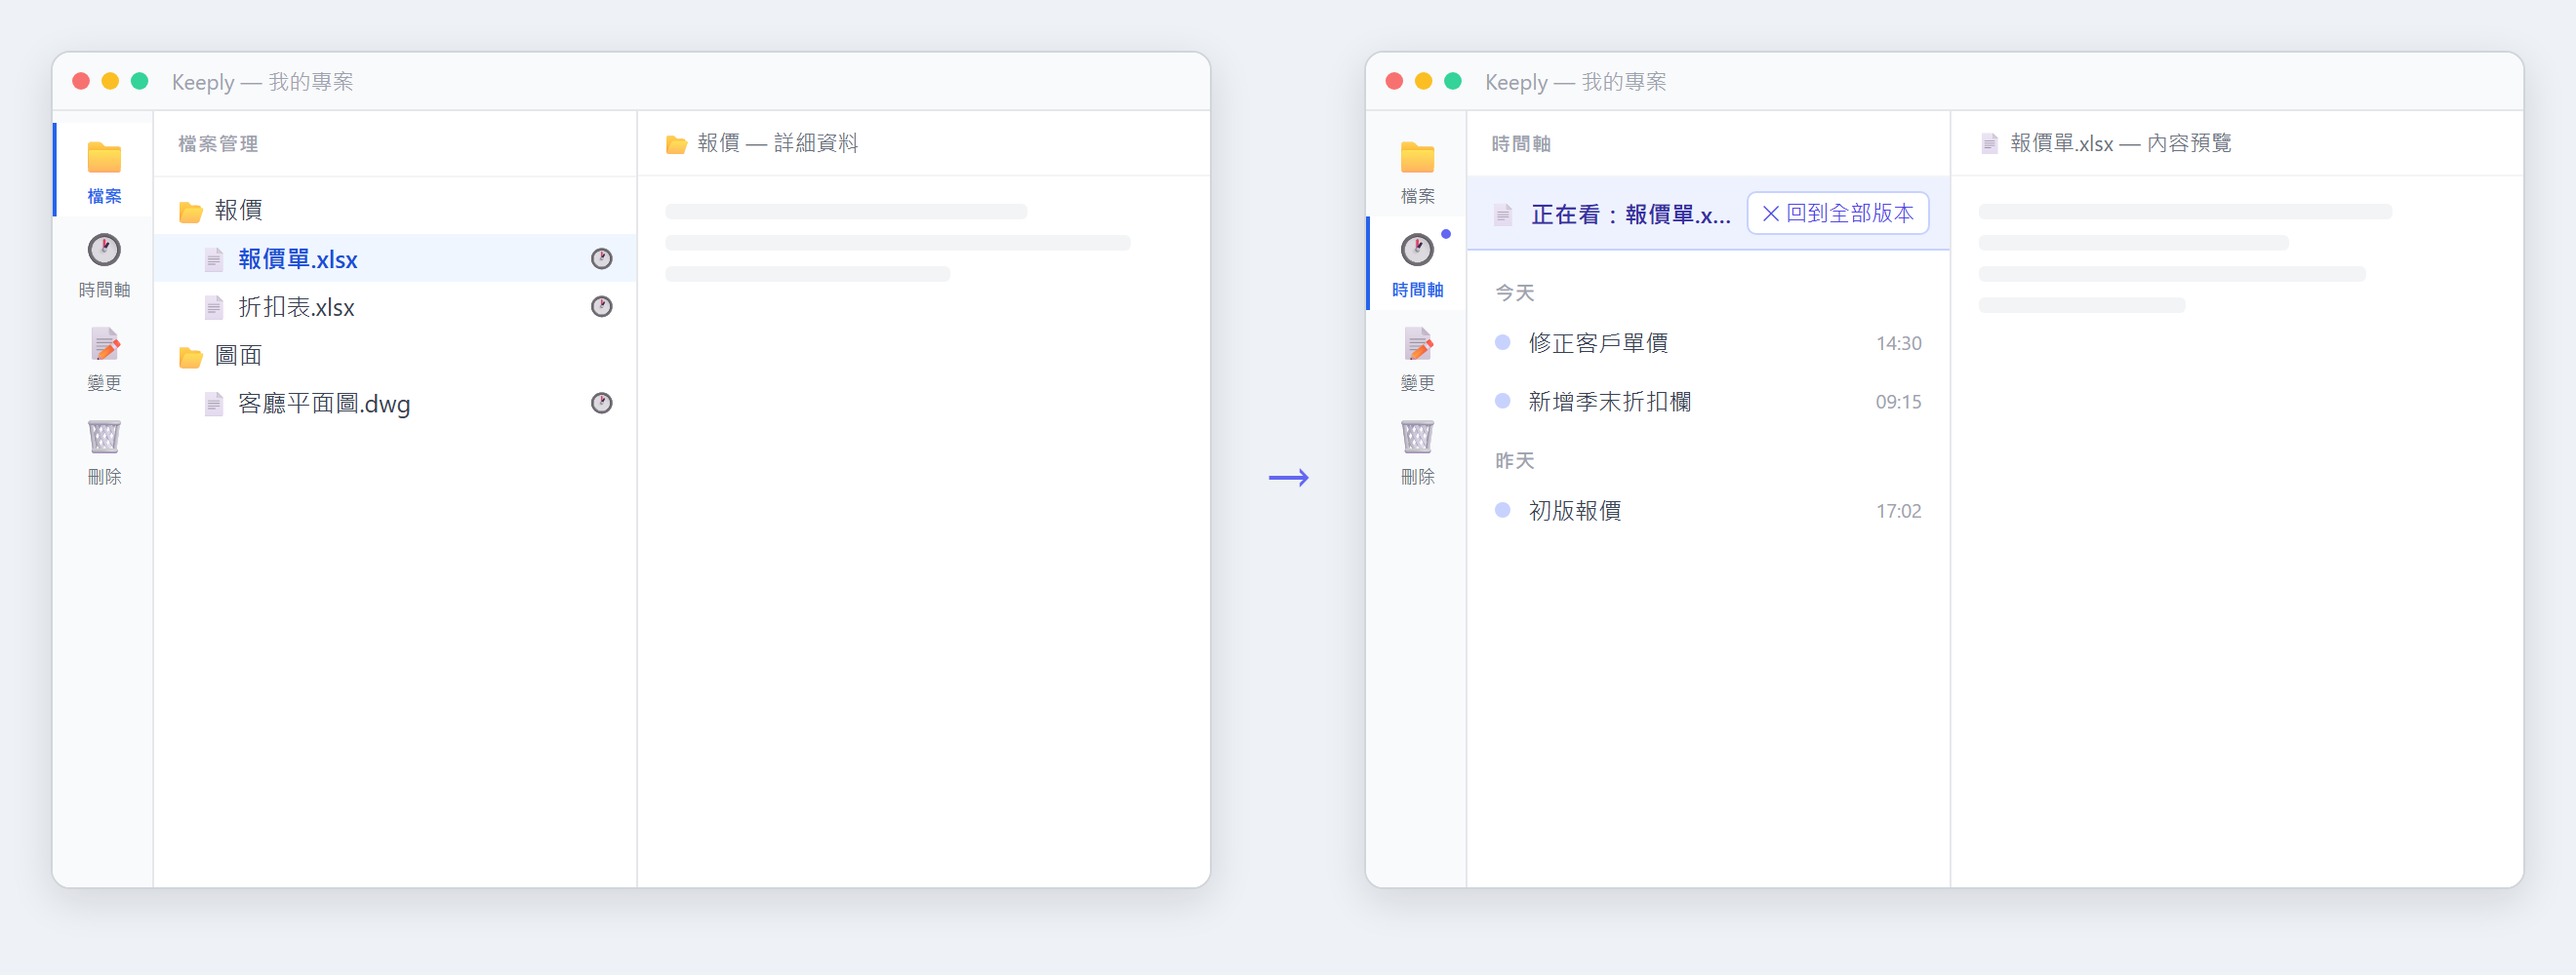
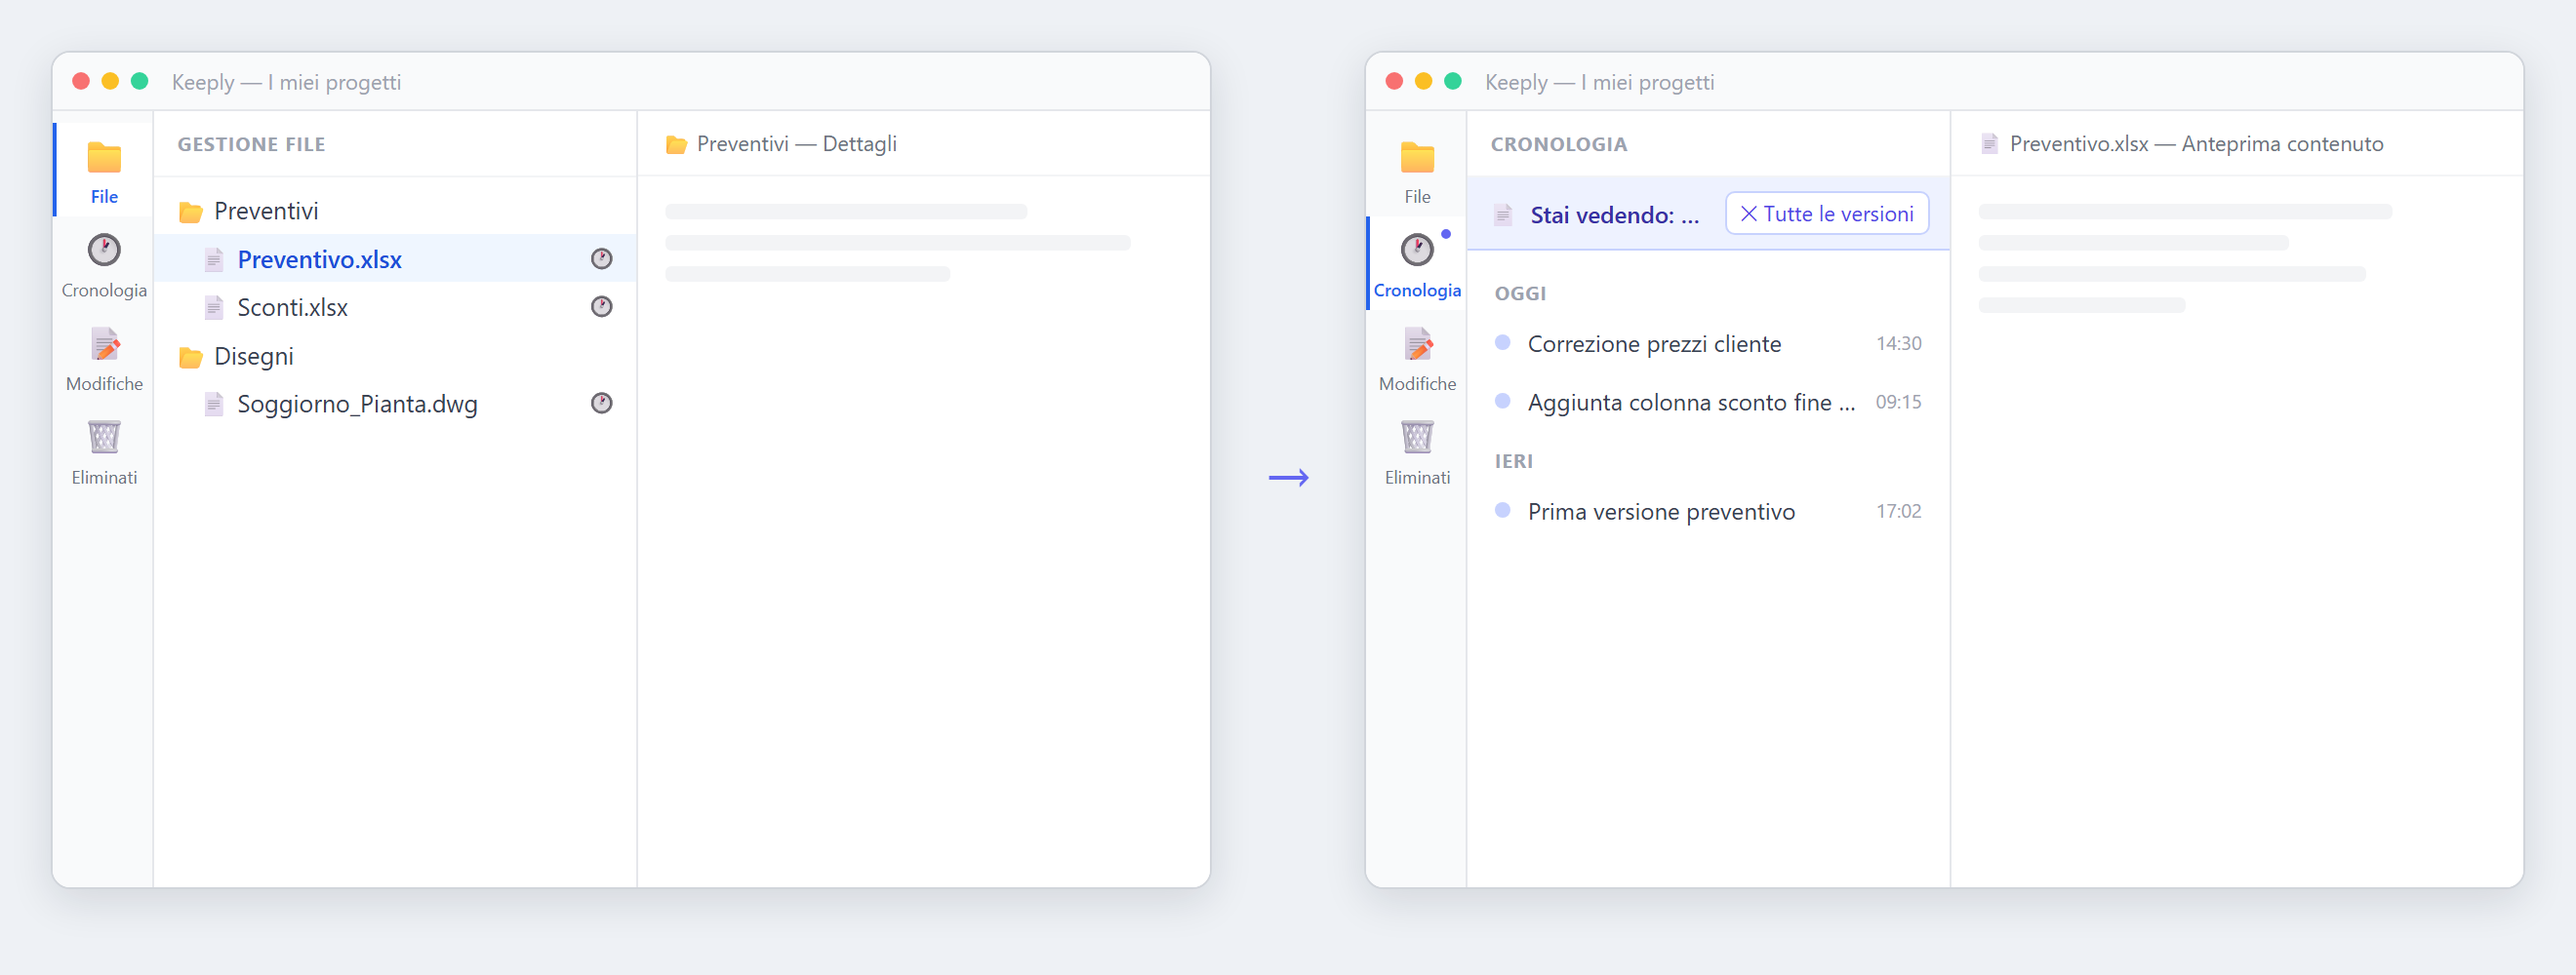
blog(post): localize keeply-1-0-13-update in-article images per locale
Replace the shared zh-TW wireframe images with per-locale localized
versions (deletion time machine / file-scoped timeline / team metro map)
for en/zh-CN/ja/ko/it — UI text, sample person + project names localized
and reviewed by per-locale native red-team agents. Fix zh-TW alt text
(was wrongly noting "English interface"). Metro-map layout hardened
(drop redundant branch annotation + trim merge label) so longer
languages don't overflow. Drop the "interface in Chinese" alt notes.

diff --git a/apps/blog/content/it/post/keeply-1-0-13-update/index.md b/apps/blog/content/it/post/keeply-1-0-13-update/index.md
@@ -33,13 +33,13 @@ Clicchi una voce e, sulla destra, si apre come in una time machine l'albero dei 
 
 Spunti i file che ti servono (puoi selezionare in un colpo solo tutti quelli eliminati in quella versione), premi "Ripristina gli N file selezionati", scegli una cartella di destinazione (per impostazione predefinita il desktop) e Keeply li ripristina rispettando la struttura di cartelle originale. In caso di nomi in conflitto, viene aggiunto in automatico il suffisso `_restored`, così non sovrascrivi i file che hai già.
 
-![La time machine delle eliminazioni: a sinistra l'elenco per data di cosa è stato eliminato in ogni versione, a destra l'albero dei file della time machine con i file cancellati evidenziati, da ripristinare con un clic dopo la selezione (interfaccia in cinese)](deletion-time-machine.png)
+![La time machine delle eliminazioni: a sinistra l'elenco per data di cosa è stato eliminato in ogni versione, a destra l'albero dei file della time machine con i file cancellati evidenziati, da ripristinare con un clic dopo la selezione](deletion-time-machine.png)
 
 ### Clicca un file e vedi solo la sua cronologia versione
 
 Finora la linea temporale ha sempre mostrato le versioni dell'intera cartella. Ma spesso vuoi sapere solo una cosa: "questo singolo file, quante volte è stato modificato?". Ora basta un clic sul file e la linea temporale principale a sinistra mostra solo la storia di quel file; quando hai finito, premi "Torna a tutte le versioni" e torni alla linea temporale completa.
 
-![Un clic su un file e la linea temporale principale mostra in automatico solo la cronologia versione di quel file (interfaccia in cinese)](file-timeline.png)
+![Un clic su un file e la linea temporale principale mostra in automatico solo la cronologia versione di quel file](file-timeline.png)
 
 ### Un explorer più bello e più pratico
 
@@ -59,7 +59,7 @@ Ecco cosa arriverà:
 - **La "mappa della metropolitana" dell'attività di team**: un grafico simile a una mappa delle linee metro, con la linea principale che rappresenta la versione master e la copia di lavoro di ciascun membro come una diramazione; vedi a colpo d'occhio chi sta lavorando, quali rami sono già stati uniti e quali sono ancora in revisione.
 - **Trasforma una cartella esistente in "originale di team"**: una cartella che già gestisci con Keeply può diventare direttamente l'originale del team, e i membri ereditano i permessi quando entrano, senza che ognuno debba acquistare di nuovo.
 
-![Anteprima della collaborazione di team: la mappa della metropolitana dell'attività di team, con la linea principale come versione master e le copie di lavoro dei membri come diramazioni, con lo stato di unione e revisione (funzione non ancora disponibile, interfaccia in cinese)](team-metro-map.png)
+![Anteprima della collaborazione di team: la mappa della metropolitana dell'attività di team, con la linea principale come versione master e le copie di lavoro dei membri come diramazioni, con lo stato di unione e revisione (funzione non ancora disponibile)](team-metro-map.png)
 
 Non abbiamo ancora fissato una data di apertura: ti avviseremo quando tutto sarà pronto. Se è proprio la collaborazione di team quello che stai aspettando, dicci da "Segnala un problema" quale parte vorresti avere per prima.
 

diff --git a/apps/blog/content/english/post/keeply-1-0-13-update/index.md b/apps/blog/content/english/post/keeply-1-0-13-update/index.md
@@ -33,13 +33,13 @@ Click an entry and the right side expands like a time machine into the file tree
 
 Check the files you want (you can select everything that round deleted at once), hit "Restore N selected files," pick a folder to drop them in (Desktop by default), and Keeply restores them in their original folder structure. If a filename collides, it adds a `_restored` suffix by default so nothing of yours gets overwritten.
 
-![Deletion time machine: the left side lists what each round deleted by date, the right side shows the time-machine file tree with deleted files marked, and a single click restores your selection (interface shown in Chinese)](deletion-time-machine.png)
+![Deletion time machine: the left side lists what each round deleted by date, the right side shows the time-machine file tree with deleted files marked, and a single click restores your selection](deletion-time-machine.png)
 
 ### Click a file to see just its version history
 
 The timeline has always shown versions for the whole folder. But often you just want to know "this one file — which versions did it actually change in?" Now you can single-click that file and the main timeline on the left narrows to just that file's history. When you're done, click "Back to all versions" to return to the full timeline.
 
-![Single-click a file and the main timeline automatically shows just that file's version history (interface shown in Chinese)](file-timeline.png)
+![Single-click a file and the main timeline automatically shows just that file's version history](file-timeline.png)
 
 ### A file explorer that's easier on the eyes and easier to use
 
@@ -59,7 +59,7 @@ Here's what's coming:
 - **A "metro map" of team activity**: a diagram like a subway map, where the trunk line is the main version and each member's working copy branches off — so you can see at a glance who's active, which branches have merged, and which are still in review.
 - **Turn an existing folder into a "team original"**: any folder you're already managing in Keeply can be set as the team original, and members inherit access when they join — no need for everyone to buy in separately.
 
-![Team collaboration sneak peek: a metro map of team activity, with the main version as the trunk line and each member's working copy as a branch, showing merge and review status (feature not yet available, interface shown in Chinese)](team-metro-map.png)
+![Team collaboration sneak peek: a metro map of team activity, with the main version as the trunk line and each member's working copy as a branch, showing merge and review status (feature not yet available)](team-metro-map.png)
 
 We haven't set a release date yet, and we'll let you know when it's ready. If team collaboration is exactly what you've been waiting for, use "Report a problem" to tell us which part you want first.
 
